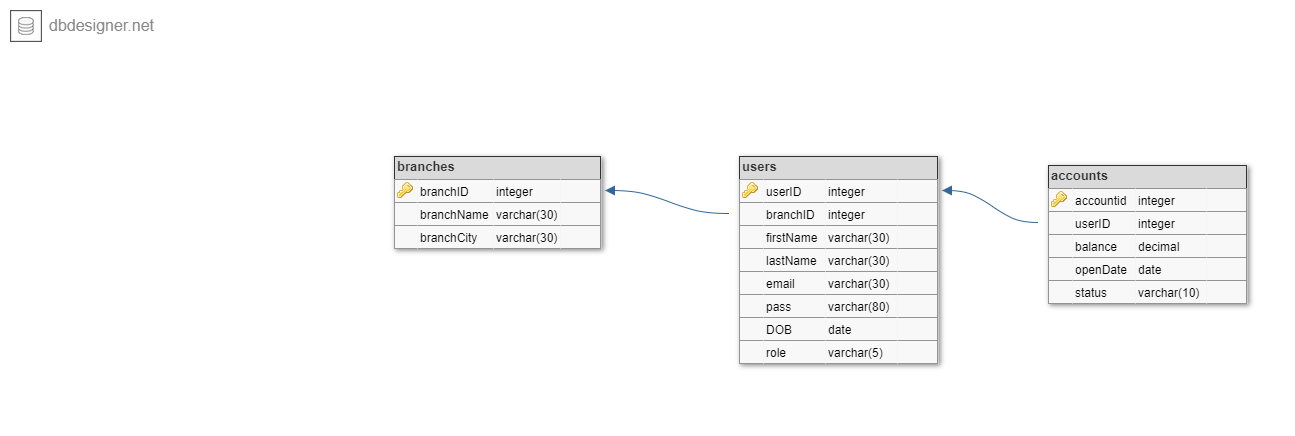
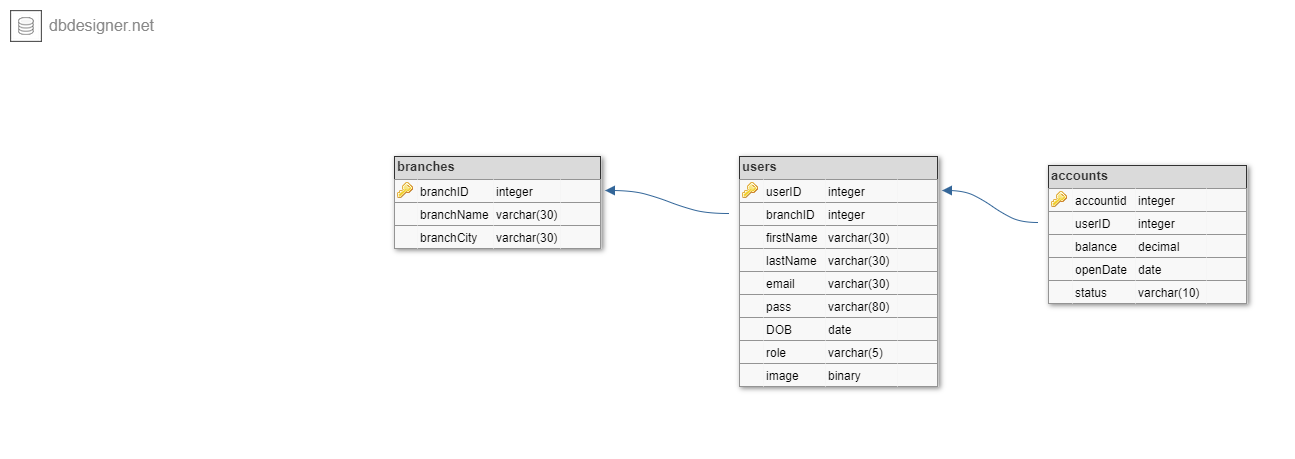
updated readMe file

diff --git a/README.md b/README.md
@@ -131,6 +131,44 @@ user has been added successfully
 
 #
 
+<h4><strong>Change User Profile Picture</strong></h4>
+User can change his/her profile picture<br>
+POST: <strong>http://localhost:8080/Bank_P0/update_image</strong>
+<br>
+Post Body: enctype="multipart/form-data" <br>
+<table>
+<tr>
+<th>Key</th>
+<th>Value</th>
+</tr>
+<tr>
+<td>image</td>
+<td>select an image on your file system</td>
+</tr>
+<tr>
+<td>userid</td>
+<td>The id of the user you would like to change his/her profile picture</td>
+</tr>
+</table>
+
+```
+Result Body:
+image has been uploaded successfully
+```
+
+#
+
+<h4><strong>Display User profile Picture</strong></h4>
+User can fetch his/her profile picture<br>
+GET: <strong>http://localhost:8080/Bank_P0/profile_image?[userID]</strong>
+
+```
+Result Body:
+<image>
+```
+
+#
+
 <h4><strong>Add Account</strong></h4>
 The user with admin role can create new account after signing in<br>
 POST: <strong>http://localhost:8080/Bank_P0/add_account</strong>
